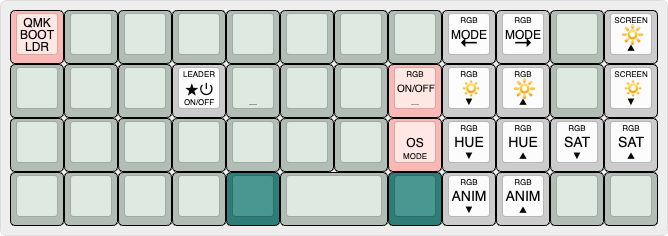
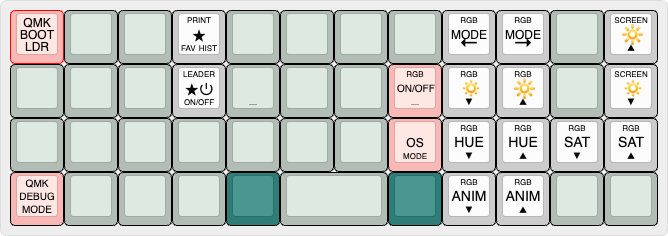
DOOM: filled out KC_NO keys on the layer w/ switching keys; more documentation polish

diff --git a/src/core/keymap.c b/src/core/keymap.c
@@ -266,20 +266,20 @@ const uint16_t PROGMEM keymaps[][MATRIX_ROWS][MATRIX_COLS] = {
 
 /* Classic Doom Layer
  * ┌─────────┬─────────┬─────────┬─────────┬─────────┬─────────┬─────────┬─────────┬─────────┬─────────┬─────────┬─────────┐
- * │ESC n y n│         │         │    ↑    │         │         │         │         │Pointer ↑│         │         │ ⌫  ⌫L ⌫w│
+ * │ESC n y n│ BFG 9000│ Plasma  │    ↑    │Load Menu│ ← Prev  │ → Next  │Open Menu│Pointer ↑│ScrnSize-│ScrnSize+│ ⌫  ⌫L ⌫w│
  * ├─────────┼─────────┼─────────┼─────────┼─────────┼─────────┼─────────┼─────────┼─────────┼─────────┼─────────┼─────────┤
  * │  ⇥   ⇤  │ Strife ←│    ←    │    ↓    │    →    │ Strife →│ Strife ←│Pointer ←│Pointer ↓│Pointer →│ Strife →│    ↵    │
  * ├─────────┼─────────┼─────────┼─────────┼─────────┼─────────┼─────────┼─────────┼─────────┼─────────┼─────────┼─────────┤
- * │         │         │         │ Strife ↓│         │         │         │ Wheel → │ Wheel ↑ │ Wheel ↓ │ Wheel ← │         │
+ * │ScrnSize-│ Rocket  │ Chaingun│ Strife ↓│ Shotgun │ Pistol  │         │ Wheel → │ Wheel ↑ │ Wheel ↓ │ Wheel ← │ScrnSize+│
  * ├─────────┼─────────┼─────────┼─────────┼─────────┼─────────┴─────────┼─────────┼─────────┼─────────┼─────────┼─────────┤
  * │  BASE   │🔇⏯ ⏹ C+M│🔉⏮ 🔅🔉 │🔊⏭ 🔆🔊 │Lft Click│   ␣           LSFT│Rgt Click│ ⇱ ^ h ← │ ⇟ } j ↓ │ ⇞ { k ↑ │ ⇲ $ l → │
  * └─────────┴─────────┴─────────┴─────────┴─────────┴───────────────────┴─────────┴─────────┴─────────┴─────────┴─────────┘
  */
 #ifdef MOUSEKEY_ENABLE
 [_DOOM] = LAYOUT_planck_mit(
-    DOOM_ESC, ____,        ____,    KC_UP,       KC_F2,   ____,        ____,        KC_F3,      MS_UP,   ____,    ____,        BSPC,
+    DOOM_ESC, KC_7,        KC_6,    KC_UP,       KC_F2,   KC_1,        KC_0,        KC_F3,      MS_UP,   KC_MINS, KC_PLUS,     BSPC,
     TAB,      STRAFE_LEFT, KC_LEFT, KC_DOWN,     KC_RGHT, STRAFE_RGHT, STRAFE_LEFT, MS_LEFT,    MS_DOWN, MS_RGHT, STRAFE_RGHT, ENT,
-    ____,     ____,        ____,    STRAFE_DOWN, ____,    ____,        ____,        MS_WHLR,    MS_WHLU, MS_WHLD, MS_WHLL,     ____,
+    KC_MINS,  KC_5,        KC_4,    STRAFE_DOWN, KC_3,    KC_2,        ____,        MS_WHLR,    MS_WHLU, MS_WHLD, MS_WHLL,     KC_PLUS,
     BASE,     MUTE,        VOLD,    VOLU,        MS_BTN1,      KC_SPC,              RCLK_UPPER, HOME,    PGDN,    PGUP,        END
 ),
 #endif

diff --git a/src/features/rgb.c b/src/features/rgb.c
@@ -611,6 +611,12 @@ bool rgb_matrix_indicators_user(void) {
             rgb_off();
             // Exit Mouse Mode Layer: Tap Bottom Left Key
             set_layer_key_color(LED_CORNER_BOTTOM_LEFT);
+            // `Esc` in red
+            rgb_matrix_set_color(LED_CORNER_TOP_LEFT, RED);
+            // `Enter` in green
+            rgb_matrix_set_color(LED_ROW1_COL11, GREEN);
+            // `Tab` in yellow (open automap)
+            rgb_matrix_set_color(LED_ROW1_COL0, YELLOW);
             // Mouse Pointer Movement Keys (Move/Go)
             rgb_matrix_set_color(LED_ROW0_RIGHT_MIDDLE, SPRING_GREEN); // Move Up
             rgb_matrix_set_color(LED_ROW1_RIGHT_INDEX,  SPRING_GREEN); // Move Left

diff --git a/README.md b/README.md
@@ -2,7 +2,7 @@
 
 Spacecentricity is a maximalist modal keymap built around a modified Dvorak base, mirrored layers for navigation, Vim‑style editing/programming, and common operating system actions. It emphasizes home-position access (with heavy thumb usage) to high-frequency characters, movement keys, numbers, symbols, and common programming n-grams through macros and tap dances. Key redundancy provides alternative ways to perform the same actions, helping reduce strain and fatigue.
 
-Because this keymap treats keyboard firmware like a [finite-state machine](https://en.wikipedia.org/wiki/Finite-state_machine), each layer includes its own RGB matrix pattern, making it easy to see which layer or state is active at a glance. The RGB matrix also indicates active modes such as Caps Lock (blinking red), One-Shot Shift (gold), [Case Modes](#case-modes-temporary-lexical-modes) (neon mint), and [Leader](/LEADER.md) sequences (navy blue).
+Because this keymap treats keyboard firmware like a [finite-state machine](https://en.wikipedia.org/wiki/Finite-state_machine), each layer includes its own RGB matrix pattern, making it easy to see which layer or state is active at a glance. The RGB matrix indicates active modes such as Caps Lock (blinking red), One-Shot Shift (gold), [Case Modes](#case-modes-temporary-lexical-modes) (neon mint), and [Leader](/LEADER.md) sequences (navy blue).
 
 This keymap has an estimated user count of one.
 
@@ -50,10 +50,21 @@ The [Inland MK-47](https://www.microcenter.com/product/661264/inland-47-keys-hot
 * USB-C wired connection (💭 remember when keyboards typically had fixed cords?)
 * Hot-swappable MX switch sockets (📌 3/5-pin)
   * Usable out of the box: preinstalled with linear switches and ABS-like keycaps
-    * 47× Huano Red linear switches
-    * 47× shine-through white keycaps (plus a black 2u "spacebar"), probably ABS plastic
-    * Funky black braided 90° USB-C-to-USB-A cable and a keycap puller included
-* Stock weight of ___345 g___ → ___≈0.76 lb___
+  * 47× Huano Red Linear switches — 45g actuation (2mm pre-travel), 60g bottom-out, 4.0mm travel
+    * Surprisingly decent 🍒 clone
+  * 44× shine-through white keycaps
+    * Probably ABS plastic
+    * OEM-like profile
+    * QWERTY primary labels w/ smaller secondary labels
+  * 3× shine-through black keycaps
+    * Black 2u “spacebar” (`ROW3`/Bottom Row)
+    * Black 1u `Esc` (`ROW0`/Top Row)
+    * Black 1u `Enter` (`ROW1`/Home Row)
+  * 1× funky black braided 90° USB-C-to-USB-A cable
+  * 1× keycap puller included (w/o switch puller)
+  * 1× paper manual that tries to trick you into using the preinstalled keymap
+* Black plastic case w/ **width × depth:** 235 × 83 mm (9.25 × 3.27 in)
+* **Stock weight:** 345 g (≈0.76 lb)
 
 The MK-47 has become a popular entry point for anyone experimenting with custom firmware, unusual layouts, or switch testing without spending much. Its compact footprint also makes it a convenient one-piece travel or backup board — it even fits neatly inside a Nintendo Switch carrying case, so it's easy to throw in a bag. Some people also repurpose the Planck form factor as a macropad.
 
@@ -74,7 +85,7 @@ Each layer is presented as a rendered diagram generated with [keyboard-layout-ed
 > Because Linux and Microsoft Windows accept Unicode directly from [HID](https://en.wikipedia.org/wiki/Human_interface_device), the standard US layout works correctly when the keyboard is used in those modes.
 
 > [!TIP]
-> [**Base**](#base-modified-dvorak), [**Upper**](#upper-primary-number-layer), and [**Arrows**](#arrows) are the most frequently used layers. Most of the remaining layers and state mechanics exist to assist workflow rather than get in the way — the [**Mouse**](#mouse) layer, for example, comes in handy when the battery dies on a wireless pointing device. [Leader](/LEADER.md) sequences can be toggled on/off via the [Adjustment](#adjustment-keyboard-settings) layer.
+> [**Base**](#base-modified-dvorak), [**Upper**](#upper-primary-number-layer), and [**Arrows**](#arrows) are the most frequently used layers. Most of the remaining layers and state mechanics exist to assist workflow rather than get in the way — the [**Mouse**](#mouse) layer, for example, comes in handy when the battery dies on a wireless pointing device. [Leader](/LEADER.md) sequences can be toggled on/off via the [**Adjustment**](#adjustment-keyboard-settings) layer.
 
 ### Legend
 
@@ -150,7 +161,7 @@ Tap the **HELD** key when this layer is **locked** to return to [**Base**](#base
 
 Hold `1`–`6` for hexadecimal `A`–`F`.
 
-Momentary hold `0` to access **Adjustment** layer to change keyboard settings.
+Momentary hold `0` to access [**Adjustment**](#adjustment-keyboard-settings) layer to change keyboard settings.
 
 ### Upper: Primary Number Layer
 

diff --git a/CHANGELOG.md b/CHANGELOG.md
@@ -28,6 +28,9 @@
   - `BUGFIX:` Displaying `Leader off` message twice on `★as` to print “all saved” in Favorites and History.
   - `BUGFIX:` Displaying surround character **Leader** sequences improperly (now suppressingthe effects of an unintended left arrow), e.g., `<>`, `()`, etc.
 - **Upper**: Added `dot.case` mode toggling on `Tap+Hold` for `Caps Lock` key.
+- **Doom**
+  - Enabled color LEDS for `Tab` (`YELLOW`) and `Esc` (`RED`).
+  - Filled out `KC_NO` keys w/ `0`–`9` weapon changes and `-`/`+` to zoom screen out/in.
 
 ## 2026-08/23-SU
 - **DOOM** → `BUGFIX:` Removed mod-tap `LSFT` for `SPC` key. Fixed responsiveness of door-opening actions possibly regarding MT key issues.
@@ -35,9 +38,9 @@
 - **macOS** → Swapped tap dances around on the delete key (right thumb); `Tap+Hold` → Open Trash folder in Finder, `Hold` → Empty Trash.
 - RGB: Added reactive typing heatmap animation.
 - **Leader**: Added print to editor to output the state of **Leader**
-  - Print History w/ `★l` for “lIST”.
-  - Print Favorites (`★v`) for “SAvED”.
-  - To print both use (`★as`) for “aLL sAVED”.
+  - Print History w/ `★l` for “list”.
+  - Print Favorites w/ `★v` for “saved”.
+  - To print both use `★as` for “all saved”.
   - [x] Find and fix any remaining output bugs; update docs when mostly done.
 
 ## 2026-08/20-TH
